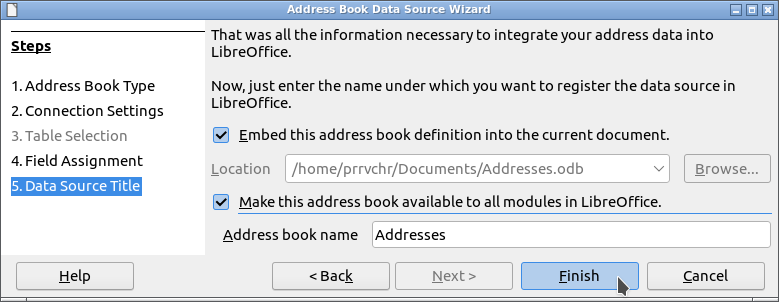
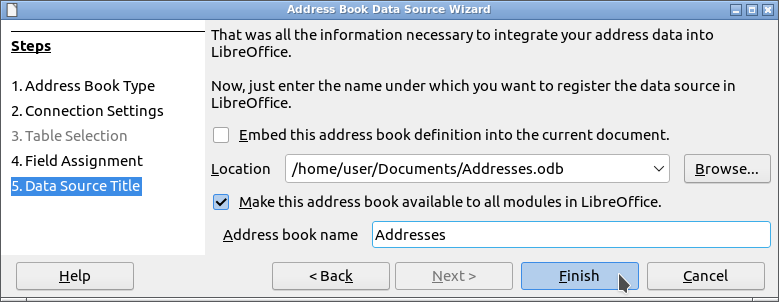
README*.md update

diff --git a/source/mContactOOo/service/pythonpath/mcontact/provider.py b/source/mContactOOo/service/pythonpath/mcontact/provider.py
@@ -162,11 +162,8 @@ class Provider(ProviderBase):
             url = tag = data = None
             iterator = response.iterContent(g_chunk, False)
             while iterator.hasMoreElements():
-                chunk = iterator.nextElement().value
-                print("Provider._parseCards() Content:\n%s" % chunk)
-                parser.send(chunk)
+                parser.send(iterator.nextElement().value)
                 for prefix, event, value in events:
-                    print("Provider._parseCards() Prefix: %s - Event: %s - Value: %s" % (prefix, event, value))
                     if (prefix, event) == ('@odata.nextLink', 'string'):
                         parameter.setNextPage('', value, REDIRECT)
                     elif (prefix, event) == ('@odata.deltaLink', 'string'):
@@ -222,11 +219,8 @@ class Provider(ProviderBase):
             parser = ijson.parse_coro(events)
             iterator = response.iterContent(g_chunk, False)
             while iterator.hasMoreElements():
-                chunk = iterator.nextElement().value
-                print("Provider._parseGroups() Content:\n%s" % chunk)
-                parser.send(chunk)
+                parser.send(iterator.nextElement().value)
                 for prefix, event, value in events:
-                    print("Provider._parseGroups() Prefix: %s - Event: %s - Value: %s" % (prefix, event, value))
                     if (prefix, event) == ('value.item', 'start_map'):
                         uri = name = None
                     elif (prefix, event) == ('value.item.id', 'string'):

diff --git a/README_fr.md b/README_fr.md
@@ -85,32 +85,36 @@ ___
 
 ## Utilisation:
 
-Dans LibreOffice / OpenOffice aller à: **Fichier -> Assistants -> Source de données des adresses**:
+Dans LibreOffice / OpenOffice aller à: **Fichier -> Assistants -> Source de données des adresses...**
 
 ![mContactOOo screenshot 1][26]
 
-À l'étape: 1. Type de carnet d'adresses:
-- sélectionner: Autre source de données externes
-- cliquez sur: Suivant (bouton)
+L'**Assistant source de données du carnet d'adresses** s'ouvre.
+
+À l'étape: **1.Type de carnet d'adresses**:
+- Sélectionner: **Autre source de données externes**.
+- Cliquez sur le bouton: **Suivant**.
 
 ![mContactOOo screenshot 2][27]
 
-À l'étape: 2. Paramètres de Connexion:
-- cliquez sur: Paramètres (bouton)
+À l'étape: **2.Paramètres de Connexion**:
+- Cliquez sur le bouton: **Paramètres**.
 
 ![mContactOOo screenshot 3][28]
 
+Un nouvel assistant s'ouvre. **Propriétés de la source de données**.
+
+A l'étape: **1.Propriétés avancées**.  
 Dans Type de base de données:
-- sélectionner: **Contacts Microsoft**
-- cliquez sur: Suivant (bouton)
+- Sélectionner: **Contacts Microsoft**.
+- Cliquez sur le bouton: **Suivant**.
 
 ![mContactOOo screenshot 4][29]
 
-Dans Général: URL de la source de données:
-- mettre: votre compte Microsoft (c'est-à-dire: votre_compte@votre_adresse.com)
-
-Puis:
-- cliquez sur: Tester la connexion (bouton)
+A l'étape: **2.Paramètres de connexion**.  
+Dans Général: Entrer ici la chaîne de connexion spécifique au SGDB / pilote.
+- Mettre votre compte Microsoft (ie: votre_compte@outlook.fr)
+- Cliquez sur le bouton: **Tester la connexion**.
 
 ![mContactOOo screenshot 5][30]
 
@@ -118,13 +122,33 @@ Après avoir autorisé l'application [OAuth2OOo][16] à accéder à vos contacts
 
 ![mContactOOo screenshot 6][31]
 
-Maintenant à vous d'en profiter...
+Si la connexion a été etablie, vous pouvez terminer cet assistant avec le bouton **Terminer**.
 
 ![mContactOOo screenshot 7][32]
 
+A l'étape: **3.Sélection de table**.  
+Si votre source de données comporte plusieurs tables, il vous sera demandé de sélectionner la table principale.  
+Dans ce cas sélectionnez la table: **Tous mes contacts**. Si nécessaire et avant toute connexion il est possible de renommer le nom de la table principale dans: **Outils -> Options -> Internet -> gContactOOo -> Nom de la table principale**.
+
+A l'étape: **4.Assignation de champ**.  
+Si nécessaire il est possible de renommer les noms des colonnes de la source de données à l'aide du bouton: **Assignation de champ**.  
+Veuillez poursuivre cet assistant par le bouton: **Suivant**.
+
 ![mContactOOo screenshot 8][33]
 
+A l'étape: **5.Titre de la source de données**.
+
+Il faut créer un fichier odb. Pour cela vous devez:
+- **Décocher la case**: Intégrer cette définition du carnet d'adresses dans le document actuel.
+- Nommer le fichier odb dans le champ: **Emplacement**.
+
+Il faut également rendre accessible ce fichier odb. Pour cela vous devez:
+- **Cocher la case**: Rendre ce carnet d'adresses accessible à tous les modules de LibreOffice
+- Nommer le carnet d'adresses dans le champ: **Nom du carnet d'adresses**.
+
 ![mContactOOo screenshot 9][34]
+
+Maintenant à vous d'en profiter...
 
 ___
 
@@ -173,6 +197,8 @@ Elle vous donnera accès à un système d'information que seules les grandes ent
 - Ajouter de nouvelles langues pour l’internationalisation...
 
 - Tout ce qui est bienvenu...
+
+
 
 [1]: <https://prrvchr.github.io/mContactOOo>
 [2]: <https://prrvchr.github.io/mContactOOo/source/mContactOOo/registration/TermsOfUse_fr>

diff --git a/README.md b/README.md
@@ -85,32 +85,36 @@ ___
 
 ## Use:
 
-In LibreOffice / OpenOffice go to **File -> Wizards -> Address Data Source**:
+In LibreOffice / OpenOffice go to: **File -> Wizards -> Address Data Source...**
 
 ![mContactOOo screenshot 1][26]
 
-In step: 1. Address Book Type:
-- select: Other external data source
-- click on: Next(Button)
+The **Address Book Datasource Wizard** open.
+
+In step: **1.Address Book Type**:
+- Select: **Other external data source**.
+- Click button: **Next**.
 
 ![mContactOOo screenshot 2][27]
 
-In step: 2. Connection Settings:
-- click on: Settings(Button)
+In step: **2.Connection Settings**:
+- Click button: **Settings**.
 
 ![mContactOOo screenshot 3][28]
 
+A new wizard opens. **Data source properties**.
+
+In step: **1.Advanced Properties**.  
 In Database type list:
-- select: **Microsoft Contacts**
-- click on: Next(Button)
+- Select: **Microsoft Contacts**.
+- Click button: **Next**.
 
 ![mContactOOo screenshot 4][29]
 
-In General: Datasource Url:
-- put: your Google account (ie: your_account@your_provider.com)
-
-Then:
-- click on: Test connection (button)
+In step: **2.Connection Settings**.  
+In General: Enter the DBMS/driver-specific connection string here.
+- Put your Microsoft account (ie: your_account@outlook.com)
+- Click button: **Test connection**.
 
 ![mContactOOo screenshot 5][30]
 
@@ -118,13 +122,33 @@ After authorizing the [OAuth2OOo][16] application to access your Contacts, norma
 
 ![mContactOOo screenshot 6][31]
 
-Have fun...
+If the connection has been established, you can complete this wizard with the **Finish** button.
 
 ![mContactOOo screenshot 7][32]
 
+In step: **3.Table Selection**.  
+If your data source has multiple tables, you will be asked to select the primary table.  
+In this case select the table: **All my contacts**. If necessary and before any connection it is possible to rename the main table name in: **Tools -> Options -> Internet -> gContactOOo -> Main table name**.
+
+In step: **4.Field Assignment**.  
+If necessary it is possible to rename the names of the columns of the data source using the button: **Field Assignment**.  
+Please continue this wizard with the button: **Next**.
+
 ![mContactOOo screenshot 8][33]
 
+In step: **5.Data Source Title**.
+
+You must create an odb file. To do this you must:
+- **Uncheck the box**: Embed this address book definition in the current document.
+- Named the odb file in the field: **Location**.
+
+This odb file must also be made accessible. To do this you must:
+- **Check the box**: Make this address book available to all modules in LibreOffice
+- Named the address book in the field: **Address book name**.
+
 ![mContactOOo screenshot 9][34]
+
+Have fun...
 
 ___
 
